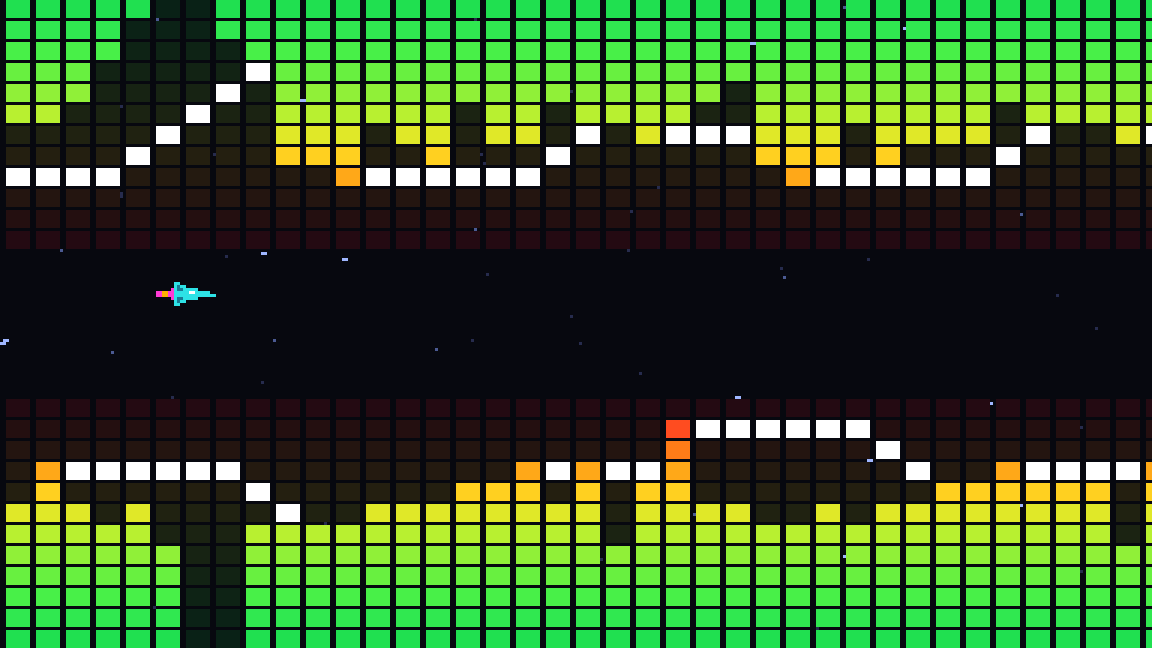
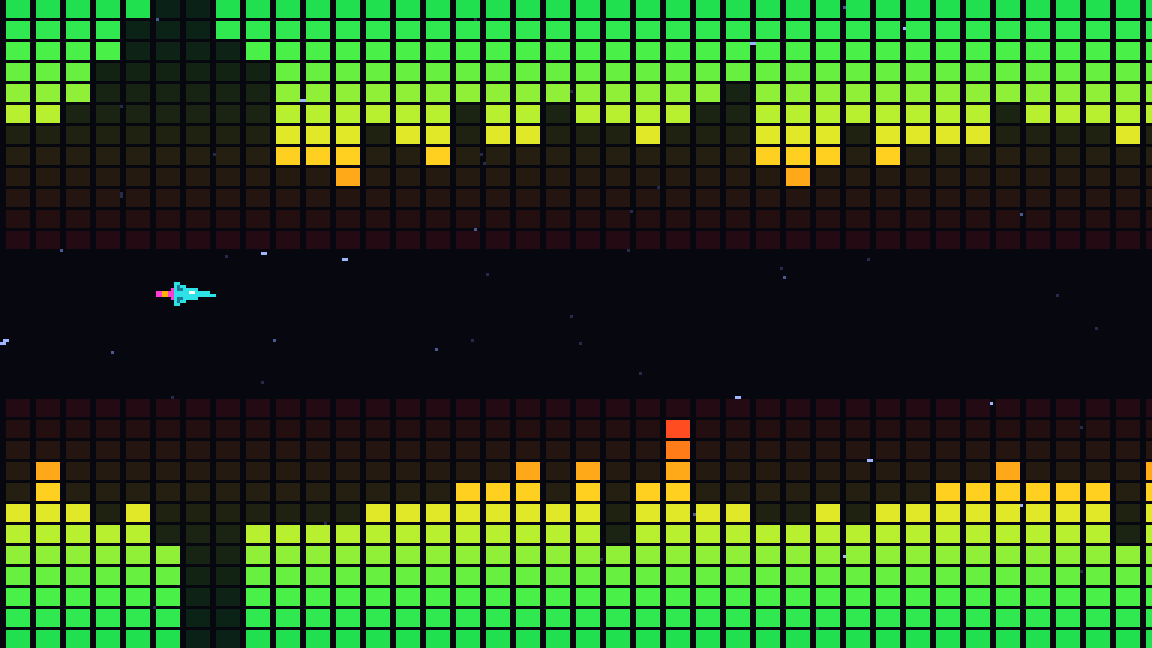
Turn peak dots off on every difficulty
Peak dots are no longer drawn or solid, hard included. Peak hold is still
computed and stored in the level, and a difficulty can turn the dots back
on with solidPeaks, which makes them solid and visible together. Whether
they return as a display option or as obstacles on hard is open decision 3
in the roadmap.

Hard levels and hard sim runs change, so GEN_VERSION and SIM_VERSION go to
1 and the golden hashes are regenerated. The README clip and still are
recaptured without the dots.

CLAUDE.md: update the Unraid container whenever a change is ready to
play-test.

Claude-Session: https://claude.ai/code/session_01JHfHGCLy1xFvhSVxtBfjqe

diff --git a/packages/client/test/browser/render.test.ts b/packages/client/test/browser/render.test.ts
@@ -4,7 +4,7 @@
 import { PLAYFIELD_HEIGHT, PLAYFIELD_WIDTH, Q8, createSimState } from '@game/core';
 import { afterAll, beforeAll, describe, expect, it } from 'vitest';
 import { drawPlay } from '../../src/game/play-view.ts';
-import { BACKGROUND, CYAN, LED_DIM, LED_LIT, LED_PEAK } from '../../src/render/palette.ts';
+import { BACKGROUND, CYAN, LED_DIM, LED_LIT } from '../../src/render/palette.ts';
 import { createGameRenderer, type GameRenderer } from '../../src/render/renderer.ts';
 import { makeLevel } from '../make-level.ts';
 
@@ -53,8 +53,9 @@ describe.skipIf(!hasWebGl)('renderer', () => {
     expect(r.renderer.height).toBe(PLAYFIELD_HEIGHT);
   });
 
-  it('draws lit, dim and peak segments, the ship, and the background', () => {
-    // Ceiling 3 lit with a peak at 6; floor 5 lit.
+  it('draws lit and dim segments, no peak dot, the ship, and the background', () => {
+    // Ceiling 3 lit with a peak at 6; floor 5 lit. No difficulty has solid peaks, so the
+    // peak segment draws dim.
     const level = makeLevel({
       ceiling: Array.from({ length: 100 }, () => 3),
       ceilingPeak: Array.from({ length: 100 }, () => 6),
@@ -73,7 +74,7 @@ describe.skipIf(!hasWebGl)('renderer', () => {
     expect(rgbAt(px, x, 2)).toBe(LED_LIT[0]);
     expect(rgbAt(px, x, 7 * 2 + 2)).toBe(LED_LIT[2]);
     expect(rgbAt(px, x, 7 * 3 + 2)).toBe(LED_DIM[3]);
-    expect(rgbAt(px, x, 7 * 5 + 2)).toBe(LED_PEAK);
+    expect(rgbAt(px, x, 7 * 5 + 2)).toBe(LED_DIM[5]);
     expect(rgbAt(px, x, 7 * 6 + 2)).toBe(LED_DIM[6]);
     // Floor segment 4 (lit) and 5 (dim), counted up from the bottom edge.
     expect(rgbAt(px, x, PLAYFIELD_HEIGHT - 7 * 4 - 3)).toBe(LED_LIT[4]);

diff --git a/packages/client/src/render/terrain.ts b/packages/client/src/render/terrain.ts
@@ -2,7 +2,7 @@
 // meters (docs/DEVELOPMENT.md, "Level and sim"). Every sprite is made once; draw() only
 // moves and recolours them.
 
-import { BAR_LIT_WIDTH, BAR_PITCH, SEGMENT_LIT_HEIGHT, type Level } from '@game/core';
+import { BAR_LIT_WIDTH, BAR_PITCH, Difficulty, SEGMENT_LIT_HEIGHT, type Level } from '@game/core';
 import { Container, Sprite, Texture } from 'pixi.js';
 import { LED_DIM, LED_LIT, LED_PEAK } from './palette.ts';
 import {
@@ -55,6 +55,7 @@ export class TerrainView {
   readonly container = new Container();
   #columns: BarColumn[] = [];
   #level: Level | null = null;
+  #showPeaks = false;
   #range: BarRange = { first: 0, end: 0 };
 
   constructor() {
@@ -64,6 +65,9 @@ export class TerrainView {
 
   setLevel(level: Level | null): void {
     this.#level = level;
+    // Peak dots are drawn only where they are solid: a dot the ship could fly through
+    // would look like terrain.
+    this.#showPeaks = level !== null && Difficulty[level.difficulty].solidPeaks;
     if (!level) for (const c of this.#columns) c.visible = false;
   }
 
@@ -79,9 +83,10 @@ export class TerrainView {
       const column = this.#columns[n]!;
       const x = i * BAR_PITCH - offset;
       const c = level.ceiling[i]!;
-      const cp = level.ceilingPeak[i]!;
       const f = level.floor[i]!;
-      const fp = level.floorPeak[i]!;
+      // A peak equal to the level draws no dot.
+      const cp = this.#showPeaks ? level.ceilingPeak[i]! : c;
+      const fp = this.#showPeaks ? level.floorPeak[i]! : f;
       for (let k = 0; k < SEGMENTS_PER_SIDE; k++) {
         const top = column.ceiling[k]!;
         top.visible = true;

diff --git a/tools/screenshots/shots.ts b/tools/screenshots/shots.ts
@@ -56,7 +56,7 @@ export const shots: Shot[] = [
     alt:
       'A frame of play in a tunnel of LED meter columns. Columns of small square segments hang from the top edge ' +
       'and rise from the bottom edge, lit bright green at the edges and yellow to orange further in, with unlit ' +
-      'segments in dim brown and dark red and a white peak dot on many columns. Near the left, a few columns ' +
+      'segments in dim brown and dark red. Near the left, a few columns ' +
       'have almost nothing lit. A small cyan ship with a magenta and amber engine flame flies left of centre in ' +
       'the dark open band through the middle, with faint blue stars behind.',
     caption: 'Pattern Break at 21.5 seconds into the test song on normal, with the ship flown by the autopilot.',
@@ -68,7 +68,7 @@ export const shots: Shot[] = [
     clip: { from: 29, to: 33, fps: 25 },
     alt:
       'Four seconds of play. The ceiling and floor, columns of square LED segments lit green, yellow and orange ' +
-      'with dim unlit segments and white peak dots, scroll from right to left, one column per row of the song, ' +
+      'with dim unlit segments, scroll from right to left, one column per row of the song, ' +
       'their heights changing with the music. A small cyan ship with a flickering engine flame steers up and ' +
       'down a little in the dark band through the middle, and faint blue stars drift more slowly behind.',
     caption: 'Four seconds of the test song on normal, flown by the autopilot through the sim.',

diff --git a/packages/core/src/levelgen/types.ts b/packages/core/src/levelgen/types.ts
@@ -2,11 +2,15 @@
 // draws it and the sim collides with it. docs/DEVELOPMENT.md, "Level and sim", has the
 // coordinate conventions.
 
-/** Per-difficulty level generation settings. */
+/**
+ * Per-difficulty level generation settings. `solidPeaks` makes peak dots solid and visible;
+ * it is off on every difficulty (2026-11-08). Peaks are still computed, so a display
+ * option or solid peaks on hard can return (docs/ROADMAP.md, "Open decisions").
+ */
 export const Difficulty = {
   easy: { id: 0, minGapPx: 96, solidPeaks: false },
   normal: { id: 1, minGapPx: 72, solidPeaks: false },
-  hard: { id: 2, minGapPx: 56, solidPeaks: true },
+  hard: { id: 2, minGapPx: 56, solidPeaks: false },
 } as const;
 export type DifficultyName = keyof typeof Difficulty;
 
@@ -31,7 +35,8 @@ export interface Level {
   floor: Uint8Array;
   /**
    * Peak-hold level per bar, 0..12. When it is above the bar's level, segment
-   * (peak - 1) shows a peak dot; solid on hard only. Never below the bar's level.
+   * (peak - 1) is a peak dot, drawn and solid only where `solidPeaks` is set. Never below
+   * the bar's level.
    */
   ceilingPeak: Uint8Array;
   floorPeak: Uint8Array;

diff --git a/packages/core/test/sim.test.ts b/packages/core/test/sim.test.ts
@@ -111,18 +111,15 @@ describe('collision', () => {
     expect(shipCollides(scrolled, 0, 4 * Q, 10 * Q)).toBe(false);
   });
 
-  it('peak dots are solid on hard only', () => {
-    // Ceiling level 1, peak 5: the dot is segment 4, lit y 28..34.
-    for (const [d, solid] of [
-      ['easy', false],
-      ['normal', false],
-      ['hard', true],
-    ] as const) {
+  it('peak dots are not solid on any difficulty', () => {
+    // Ceiling level 1, peak 5: the dot would be segment 4, lit y 28..34.
+    for (const d of ['easy', 'normal', 'hard'] as const) {
       const l = handLevel(d, [[1, 0, 5, 0]]);
-      expect(shipCollides(l, 0, 4 * Q, 31 * Q), d).toBe(solid);
-      // Between the level and the dot (segments 1 to 3) is open everywhere.
+      expect(shipCollides(l, 0, 4 * Q, 31 * Q), d).toBe(false);
       expect(shipCollides(l, 0, 4 * Q, 17 * Q), d).toBe(false);
-      expect(Difficulty[d].solidPeaks).toBe(solid);
+      // The level itself is still solid.
+      expect(shipCollides(l, 0, 4 * Q, 6 * Q), d).toBe(true);
+      expect(Difficulty[d].solidPeaks).toBe(false);
     }
   });
 });

diff --git a/packages/core/src/version.ts b/packages/core/src/version.ts
@@ -3,10 +3,10 @@
  * Bump SIM_VERSION whenever simulation output changes for any input.
  * Leaderboard key is (moduleHash, difficulty, GEN_VERSION); see docs/PLAN.md, "Determinism rules".
  *
- * 0 = pre-release; nothing is stable yet.
+ * 1 = peak dots off on hard (2026-11-08). Pre-release: no scores are kept yet.
  */
-export const GEN_VERSION = 0;
-export const SIM_VERSION = 0;
+export const GEN_VERSION = 1;
+export const SIM_VERSION = 1;
 
 /** Fixed simulation tick rate (docs/PLAN.md, "Simulation"). */
 export const TICK_HZ = 120;

diff --git a/packages/analysis/test/analyze.test.ts b/packages/analysis/test/analyze.test.ts
@@ -202,7 +202,7 @@ describe('analyze', () => {
   it('matches the golden hash for the fake song', async () => {
     // Update only together with a GEN_VERSION bump (or before the first release).
     expect(await hashLevelData(run().level)).toBe(
[2 lines of base64/hex data omitted]
     );
   });
 

diff --git a/docs/DEVELOPMENT.md b/docs/DEVELOPMENT.md
@@ -249,7 +249,8 @@ and "Simulation"; this section has the exact rules.
   (`[10i, 10i + 8)`); the other 2 px are open.
 - **Segments:** ceiling segment k (from 0) is solid for y in `[7k, 7k + 6)`. Floor segment
   k is the mirror image: `[216 - 7k - 6, 216 - 7k)`. A side with level n has segments
-  0 to n - 1 lit. A peak p above the level lights segment p - 1 as a peak dot.
+  0 to n - 1 lit. A peak p above the level makes segment p - 1 a peak dot, which is drawn
+  and solid only on a difficulty with `solidPeaks`. No difficulty sets it (2026-11-08).
 - **Scroll table:** `level.scroll[t]`, for t from 0 to `level.tickCount`, is the world x in
   Q8 of the screen's left edge at sim tick t (song sample `400 t`). It is
   `playheadAtSample(400 t) - 64 * 256`. The playhead's world x is
@@ -286,11 +287,11 @@ For each bar in order, with the previous bar's final values:
    segment per bar. Peaks are never below their levels.
 5. **Peak gap:** if the two peaks together exceed the segment budget of step 2, the
    ceiling peak is lowered first (down to its level), then the floor peak.
-6. **Hard only:** peaks are solid, so step 3 runs again on the peaks. A peak is lowered
+6. **Solid peaks only** (no difficulty, for now): step 3 runs again on the peaks. A peak is lowered
    first; once it equals its level, both go down together.
 
 `findPathViolation(level)` in `levelgen/path-check.ts` checks the guarantee: every bar's
-solid gap (peaks on hard, levels otherwise) is at least the minimum, and every centre move
+solid gap (peaks where they are solid, levels otherwise) is at least the minimum, and every centre move
 is within the limit unless the new gap contains the old one. Tests run it on random loud
 songs at every difficulty and on each fixture.
 
@@ -306,7 +307,7 @@ songs at every difficulty and on each fixture.
   (384 / sqrt 2, rounded), about 1.503 px per tick in total. The centre stays within
   x 16 to 160 and y 3 to 213, so the hitbox never leaves the screen. It starts at (64, 108).
 - **Collision:** the hitbox against the solid part of every bar it overlaps horizontally:
-  lit segments, plus peak dots on hard. Integer comparisons only.
+  lit segments, plus peak dots where they are solid. Integer comparisons only.
 - **Death:** `state.dead` and `state.deathTick` (the value of `state.tick` after the fatal
   tick). M1 restarts the song on death; `state.lives` is there for later.
 - **Running a log:** `runInputLog(level, inputs, state?)` runs from the state's current
@@ -648,7 +649,7 @@ Two query parameters help in development:
   (`MAX_VISIBLE_BARS`) of 24 sprites each, one per segment, made once. Each frame moves the
   columns to the bars `visibleBars()` lists and tints each sprite: lit segment k is
   `LED_LIT[k]` (green at the screen edge, through amber, to red towards the gap), unlit is
-  `LED_DIM[k]`, and a peak dot is white. The scroll is rounded to a whole pixel once per
+  `LED_DIM[k]`, and a peak dot, drawn only where peaks are solid, is white. The scroll is rounded to a whole pixel once per
   frame, so bars never shift against each other.
 - **Ship** (`ship.ts`): a 16x8 sprite built from a character map, centred on the sim's
   `shipX` and `shipY`. The engine flame changes length every 1440 song samples (30 ms).

diff --git a/docs/PLAN.md b/docs/PLAN.md
@@ -141,8 +141,9 @@ every bar of every generated level.
     the ship's height. Levels are cut further where needed. A gap that grows to contain
     the previous one needs no cut, since the ship can stay where it is.
 - **Peak hold:** each side keeps a peak level that holds for 6 bars and then falls one
-  segment per bar. The peak dot is solid on hard only, and on hard the path rules apply to
-  the peaks too.
+  segment per bar. Peak dots are off on every difficulty (2026-11-08): the peaks are
+  computed but not drawn or solid. A difficulty can turn them on with `solidPeaks`, which
+  makes them solid and visible and applies the path rules to them too.
 - **Difficulty** is a constant object (`easy`, `normal`, `hard`). The numbers and the
   exact rounding rules are in `docs/DEVELOPMENT.md`, "Level and sim".
 - **Enemies (from note events):**
@@ -214,8 +215,8 @@ every bar of every generated level.
 - Internal resolution **384x216** (16:9), integer-scaled with nearest-neighbour filtering
   and letterboxed. An optional 320x256 "Amiga PAL" mode later.
 - Palette: near-black background with neon cyan, magenta, lime, and amber accents. LED
-  segments go green to amber to red with height, with lit and unlit (dim) segments and
-  white peak-hold dots.
+  segments go green to amber to red with height, with lit and unlit (dim) segments.
+  White peak-hold dots are drawn only on a difficulty with solid peaks (none, for now).
 - Backgrounds: animated copper-bar gradients (horizontal colour bands) and a parallax
   starfield. The bars can pulse with the bass channel's VU.
 - Effects: pooled particle emitters on note hits and kills, hit-stop (cosmetic only),

diff --git a/README.md b/README.md
@@ -2,7 +2,7 @@
 
 [![License: MIT](https://img.shields.io/badge/License-MIT-yellow.svg)](LICENSE)
 
-<img src="docs/img/gameplay-clip.gif" width="768" alt="Four seconds of play. The ceiling and floor, columns of square LED segments lit green, yellow and orange with dim unlit segments and white peak dots, scroll from right to left, one column per row of the song, their heights changing with the music. A small cyan ship with a flickering engine flame steers up and down a little in the dark band through the middle, and faint blue stars drift more slowly behind.">
+<img src="docs/img/gameplay-clip.gif" width="768" alt="Four seconds of play. The ceiling and floor, columns of square LED segments lit green, yellow and orange with dim unlit segments, scroll from right to left, one column per row of the song, their heights changing with the music. A small cyan ship with a flickering engine flame steers up and down a little in the dark band through the middle, and faint blue stars drift more slowly behind.">
 
 A side-scrolling neon tunnel shooter where every level is built from a song. The songs are
 tracker modules, often called mods: music files made in a tracker, a program that arranges

diff --git a/CLAUDE.md b/CLAUDE.md
@@ -70,6 +70,11 @@ forgotten next session.
 - The first mention of a module, mod, or tracker in anything a person reads says what it is:
   a song file made in a music tracker. Player-facing text calls them songs (Brad,
   2026-11-08; see `docs/DOC-STYLE.md`, "Say what a module is").
+- When a change is ready for Brad to play-test, push it, wait for the "Docker image" workflow
+  to publish `edge`, then update the `pattern-break` container on Unraid (10.6.26.2, host
+  port 8380, served at https://patternbreak.lynwood.us) and confirm the new build is the
+  one served. The container doesn't update itself (Brad, 2026-11-08; see
+  `docs/SELF-HOSTING.md`).
 
 ## Open decisions
 

diff --git a/docs/ROADMAP.md b/docs/ROADMAP.md
@@ -156,6 +156,8 @@ These need Brad's answer before the work that depends on them. Don't guess.
    starts.
 2. **User-imported modules on leaderboards** from day one, or bundled songs only at first.
    Needed before M5.
+3. **Peak dots:** they are off on every difficulty (2026-11-08). They could come back as a
+   display option, as solid obstacles on hard, or not at all.
 
 ## Decided
 
